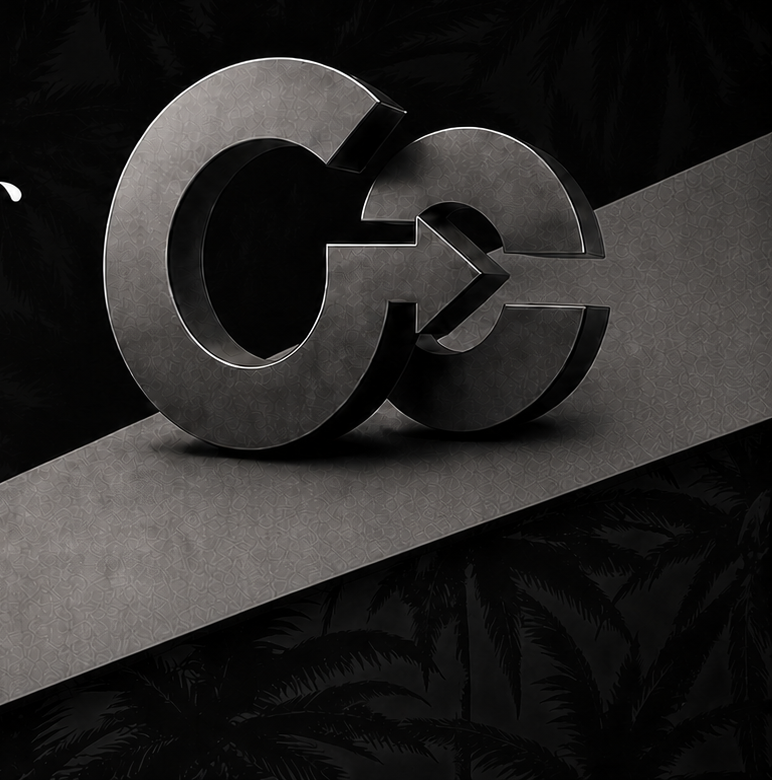
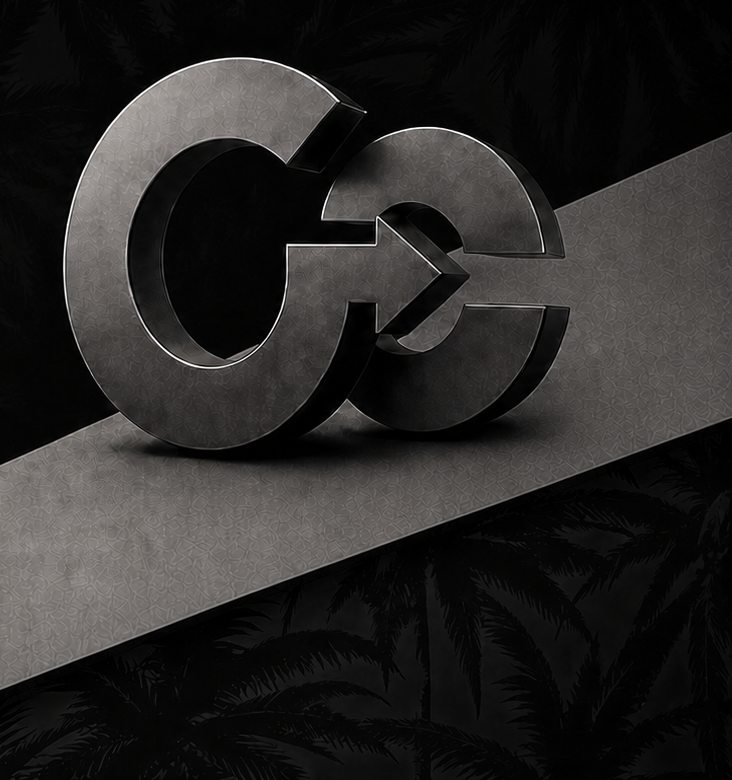
Refine hero art spacing

diff --git a/app/globals.css b/app/globals.css
@@ -10,7 +10,7 @@ a { color:inherit; text-decoration:none; }
 .fv { position:relative; isolation:isolate; min-height:100svh; overflow:hidden; background:var(--black); font-family:"Ryumin","A-OTF Ryumin Pr6N","リュウミン","Hiragino Mincho ProN","Yu Mincho",serif; }
 .fv::after { content:""; position:absolute; z-index:-1; inset:0; background:linear-gradient(90deg,rgba(5,5,5,.14) 0%,rgba(5,5,5,.06) 48%,rgba(5,5,5,0) 75%); pointer-events:none; }
 .fv-pattern { position:absolute; z-index:-3; inset:0; background:#050505 url('/justoc-palms.png') center/1180px auto repeat; opacity:.25; filter:contrast(1.12) brightness(.72); }
-.fv-art { position:absolute; z-index:-2; right:-1px; bottom:0; width:min(57vw,960px); height:auto; display:block; object-fit:contain; object-position:right bottom; -webkit-mask-image:linear-gradient(90deg,transparent 0%,rgba(0,0,0,.55) 7%,#000 19%); mask-image:linear-gradient(90deg,transparent 0%,rgba(0,0,0,.55) 7%,#000 19%); }
+.fv-art { position:absolute; z-index:-2; right:0; bottom:0; width:min(50vw,820px); height:auto; display:block; object-fit:contain; object-position:right bottom; -webkit-mask-image:linear-gradient(90deg,transparent 0%,rgba(0,0,0,.18) 8%,#000 22%); mask-image:linear-gradient(90deg,transparent 0%,rgba(0,0,0,.18) 8%,#000 22%); }
 .fv-header { position:relative; z-index:2; width:100%; padding:clamp(30px,4.8vh,50px) clamp(36px,5vw,78px) 0; display:flex; align-items:center; justify-content:space-between; }
 .fv-logo { display:block; width:clamp(270px,26vw,420px); line-height:0; }
 .fv-logo img { display:block; width:100%; height:auto; }
@@ -18,8 +18,8 @@ a { color:inherit; text-decoration:none; }
 .fv-nav a { position:relative; padding:8px 0; font-family:Arial,"Helvetica Neue",sans-serif; font-size:clamp(13px,1.05vw,18px); letter-spacing:.16em; text-transform:uppercase; }
 .fv-nav a::after { content:""; position:absolute; left:0; right:.16em; bottom:0; height:1px; background:var(--blue); transform:scaleX(0); transform-origin:right; transition:transform .28s ease; }
 .fv-nav a:hover::after,.fv-nav a:focus-visible::after { transform:scaleX(1); transform-origin:left; }
-.fv-content { position:relative; z-index:1; width:min(58vw,900px); margin:clamp(118px,16vh,178px) 0 0 clamp(48px,5.7vw,96px); }
-.fv-content h1 { margin:0; color:var(--white); font-size:clamp(42px,4.75vw,78px); font-weight:400; line-height:1.45; letter-spacing:.045em; text-shadow:0 2px 20px rgba(0,0,0,.45); }
+.fv-content { position:relative; z-index:1; width:min(55vw,820px); margin:clamp(118px,16vh,178px) 0 0 clamp(48px,5.7vw,96px); }
+.fv-content h1 { margin:0; color:var(--white); font-size:clamp(40px,4.2vw,70px); font-weight:400; line-height:1.45; letter-spacing:.045em; text-shadow:0 2px 20px rgba(0,0,0,.45); }
 .fv-content h1 span { display:block; white-space:nowrap; }
 .fv-subcopy { margin:clamp(18px,3vh,30px) 0 0; font-family:Georgia,"Times New Roman",serif; font-size:clamp(24px,2.7vw,44px); font-style:italic; letter-spacing:.07em; }
 .fv-actions { display:flex; align-items:center; gap:clamp(34px,4vw,64px); margin-top:clamp(38px,5.5vh,62px); }
@@ -44,7 +44,7 @@ a { color:inherit; text-decoration:none; }
   .fv-subcopy { font-size:clamp(21px,5.8vw,32px); }
   .fv-actions { gap:28px; margin-top:38px; }
   .fv-button { min-width:190px; }
-  .fv-art { width:min(92vw,720px); right:-8vw; }
+  .fv-art { width:min(84vw,650px); right:-5vw; }
   .fv-pattern { background-size:780px auto; opacity:.23; }
 }
 
@@ -60,7 +60,7 @@ a { color:inherit; text-decoration:none; }
   .fv-actions { align-items:stretch; flex-direction:column; gap:16px; width:min(100%,280px); }
   .fv-button { width:100%; min-width:0; }
   .fv-text-link { width:max-content; }
-  .fv-art { width:112vw; right:-22vw; }
+  .fv-art { width:102vw; right:-18vw; }
   .fv-pattern { background-size:620px auto; }
 }
 

diff --git a/app/page.tsx b/app/page.tsx
@@ -11,7 +11,7 @@ export default function Home() {
     <main className="fv-page">
       <section className="fv" id="top" aria-labelledby="fv-title">
         <div className="fv-pattern" aria-hidden="true" />
-        <Image className="fv-art" src="/justoc-hero-art.png" alt="JUSToCの立体的な矢印シンボル" width={772} height={780} priority unoptimized />
+        <Image className="fv-art" src="/justoc-hero-art.png" alt="JUSToCの立体的な矢印シンボル" width={732} height={780} priority unoptimized />
 
         <header className="fv-header">
           <a className="fv-logo" href="#top" aria-label="JUSToC トップへ">
